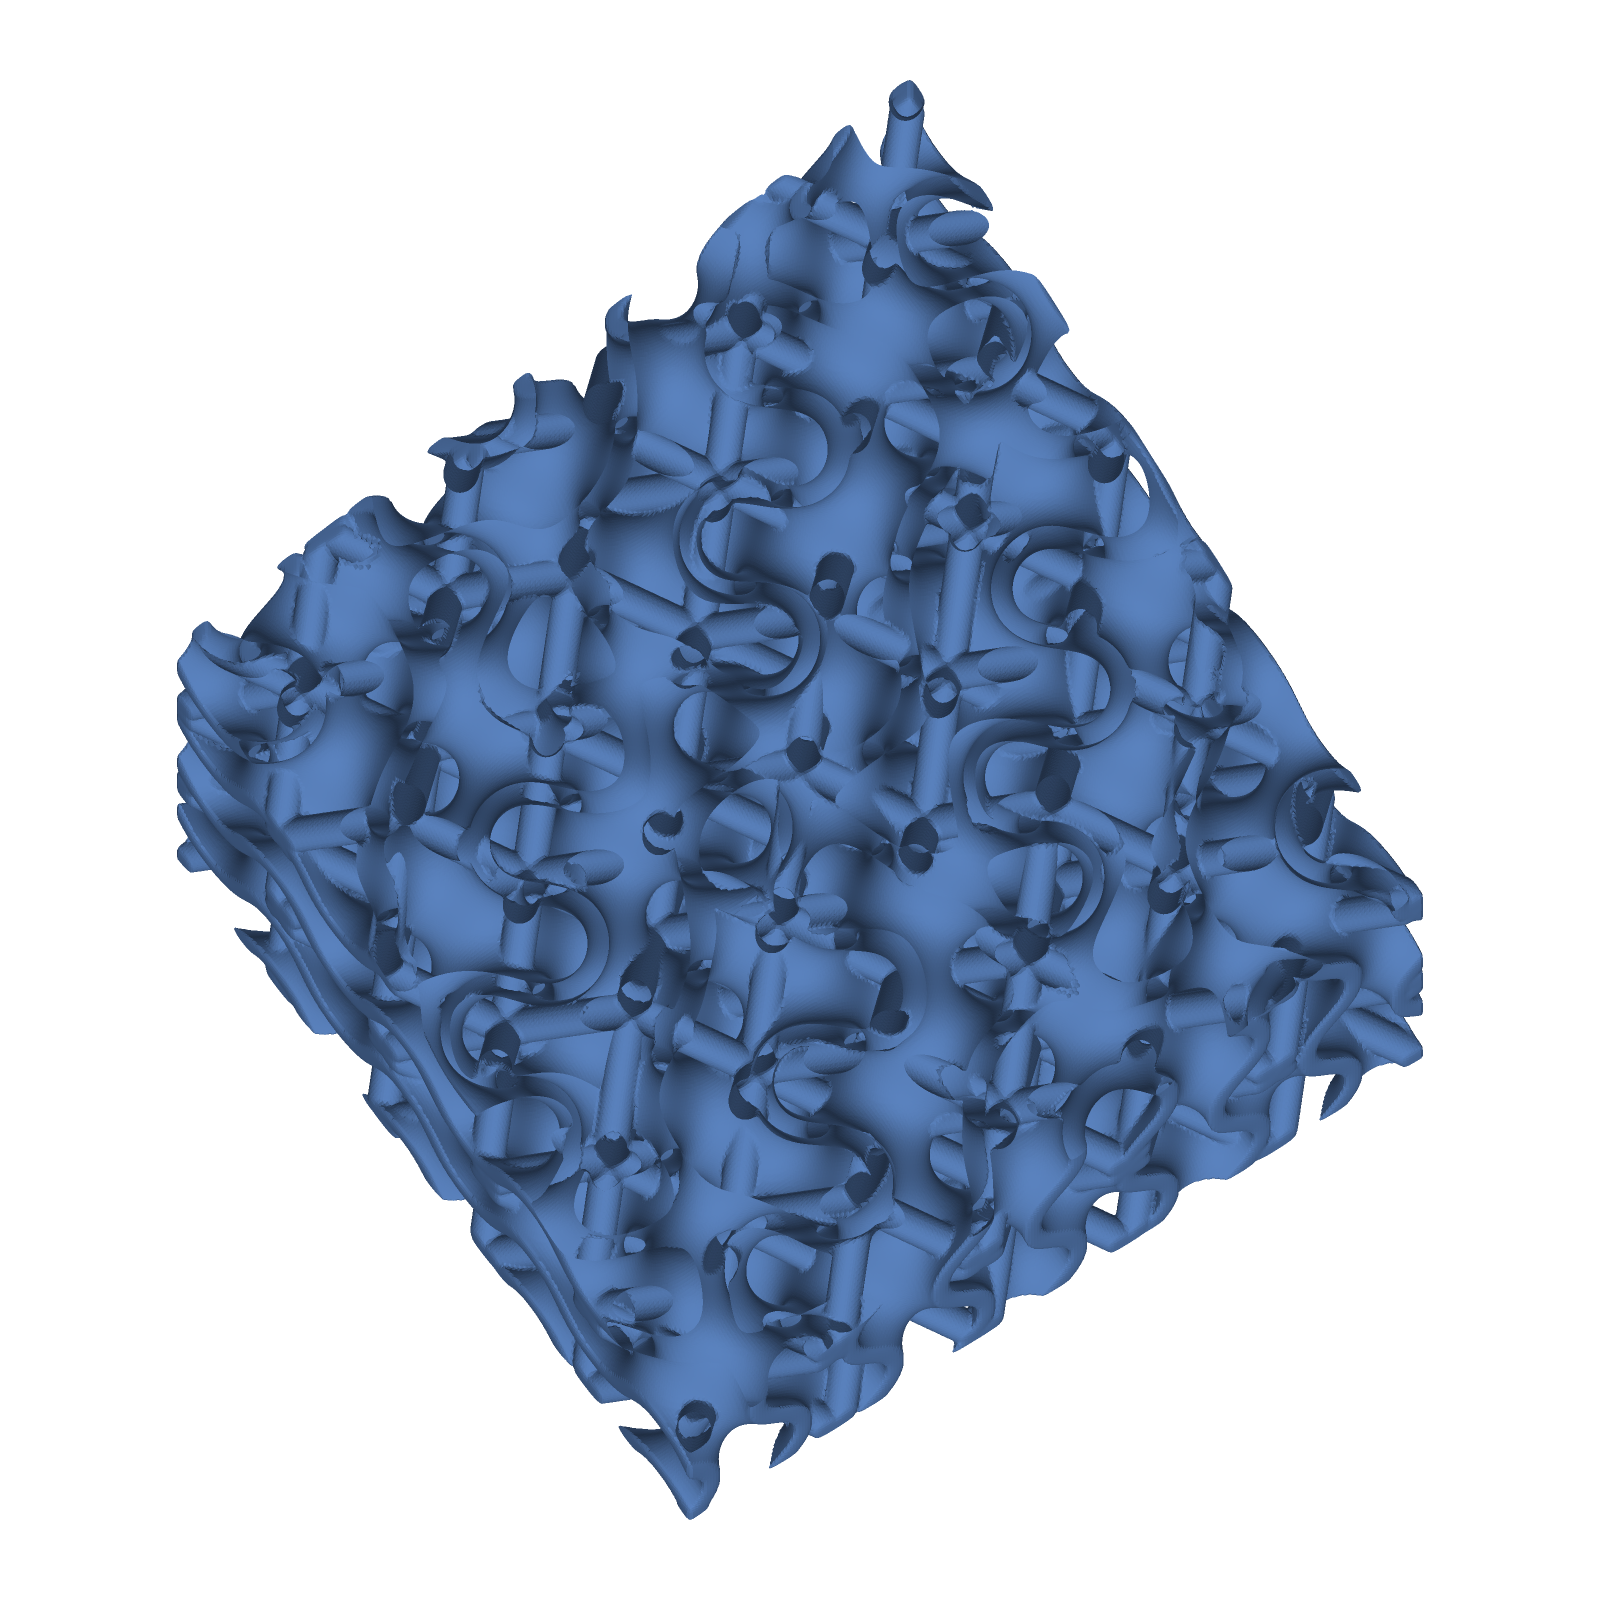
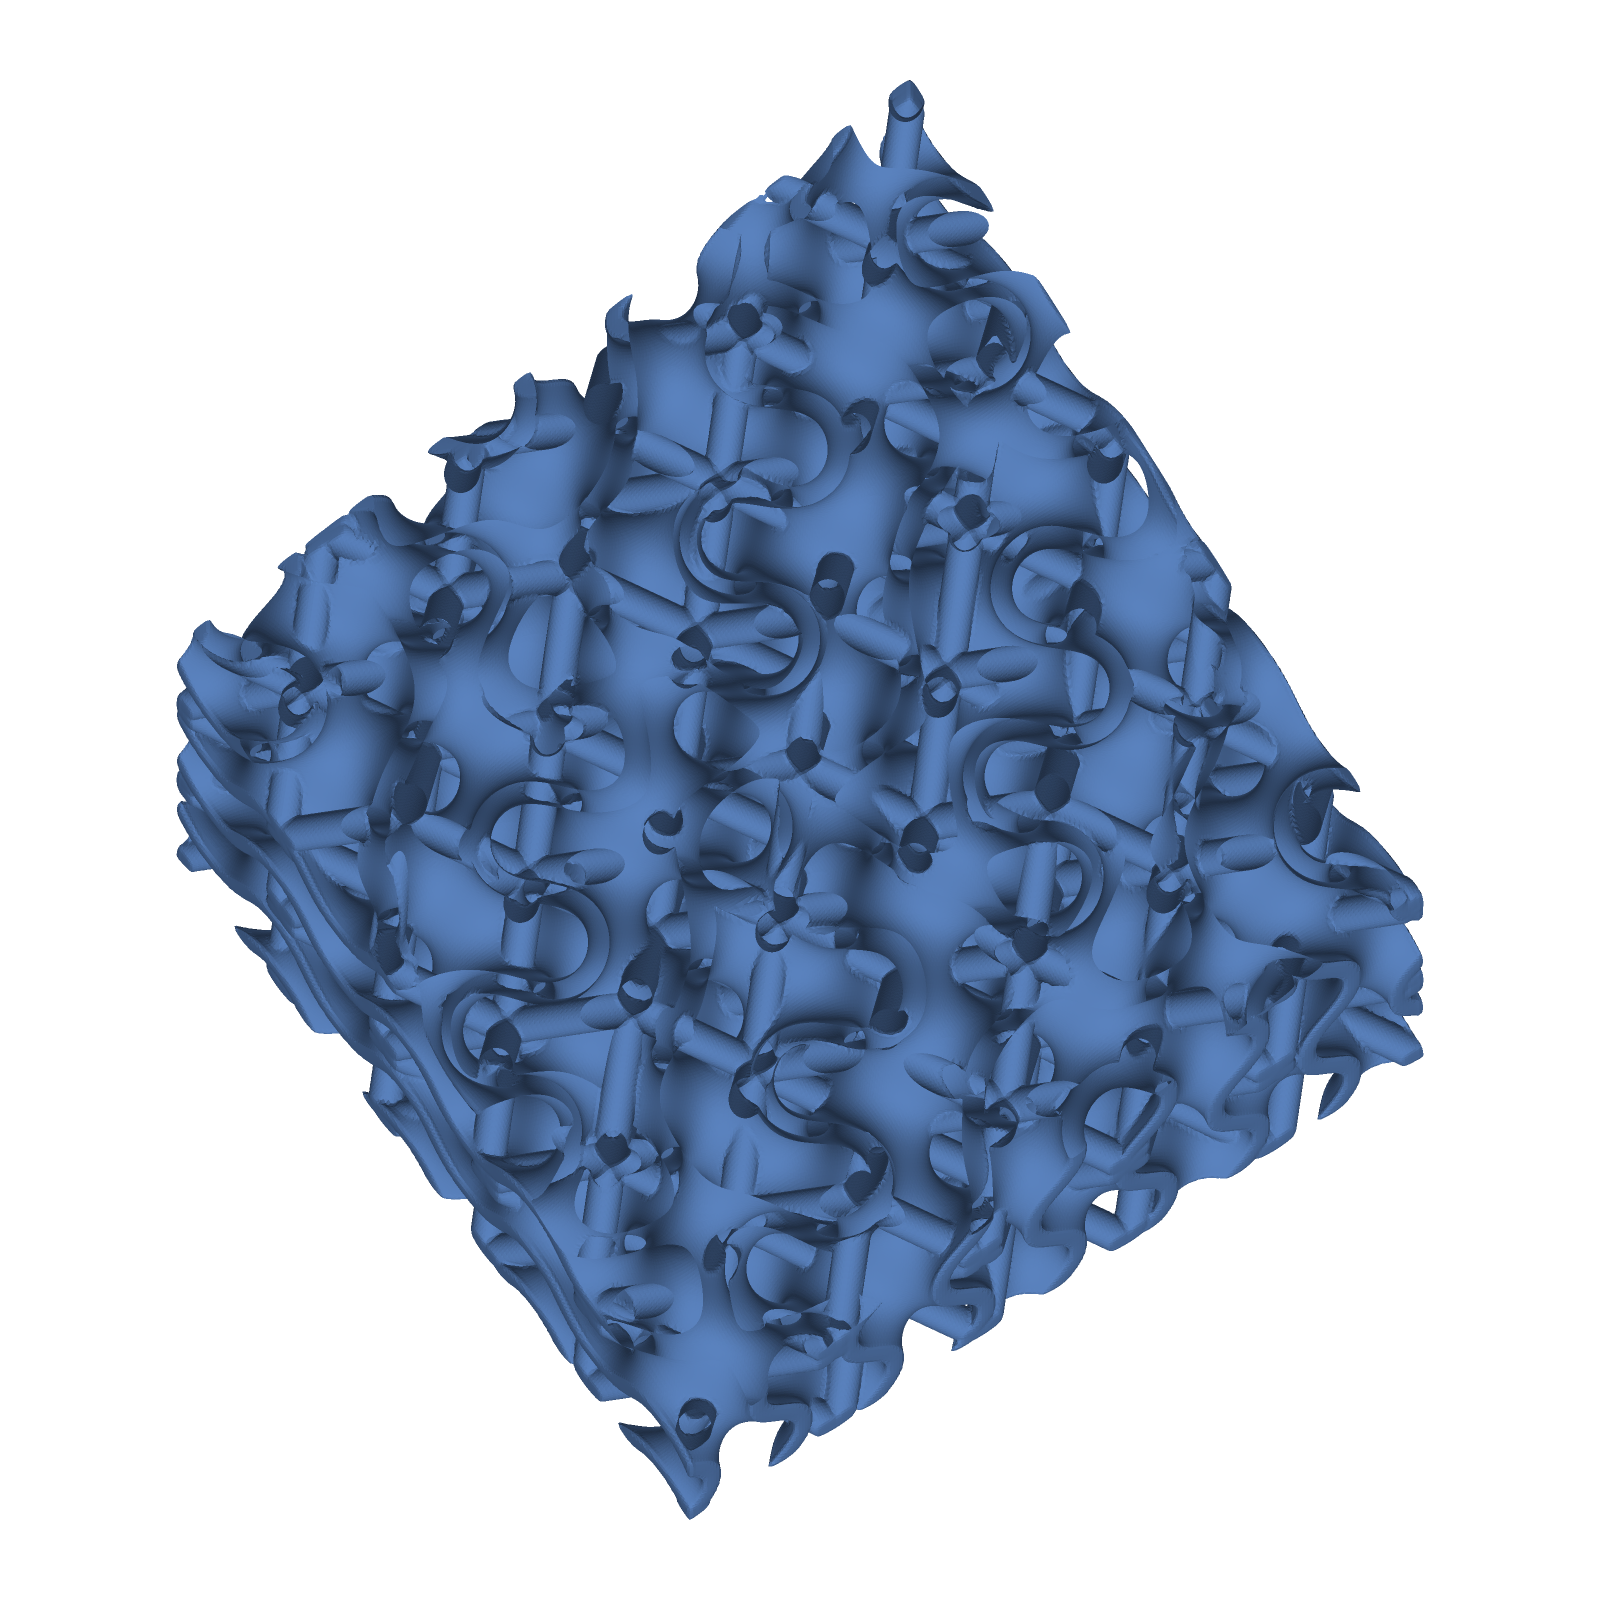
A5 fused designs re-meshed with manifold dual contouring (CPU, 256): 6/6 PASS; volumes change by at most 0.6 %; gallery.json, design files, PNGs and README updated (the other five entries unchanged)

diff --git a/examples/structure_gallery_256_mixed_open/README.md b/examples/structure_gallery_256_mixed_open/README.md
@@ -8,12 +8,12 @@ Field-based (non-exact) renders: these come from the field and surface-nets mesh
 
 | id | title | group | volume (mm³) | validation | images |
 |---|---|---|---|---|---|
-| `fusion_gyroid_plus_bcc` | Gyroid union BCC lattice (open partner) | fusion | 3374.646 | PASS (7/7) | screenshot.png, view_top.png, view_front.png, view_side.png |
-| `fusion_schwarzp_to_gyroid` | Schwarz P below, gyroid above (zoned at mid-height) | fusion | 2179.981 | PASS (7/7) | screenshot.png, view_top.png, view_front.png, view_side.png |
-| `fusion_kelvin_to_iwp` | Kelvin lattice below, I-WP above (zoned), open (no skin) | fusion | 2205.499 | PASS (7/7) | screenshot.png, view_top.png, view_front.png, view_side.png |
-| `fusion_bcc_plus_voronoi` | BCC lattice union Voronoi foam | fusion | 6174.205 | PASS (7/7) | screenshot.png, view_top.png, view_front.png, view_side.png |
-| `fusion_helical_cap_iwp` | Helical plies intersected with I-WP | fusion | 2381.578 | PASS (7/7) | screenshot.png, view_top.png, view_front.png, view_side.png |
-| `fusion_diamond_plus_lidinoid` | Diamond lattice union Lidinoid, open (no skin) | fusion | 5138.036 | PASS (7/7) | screenshot.png, view_top.png, view_front.png, view_side.png |
+| `fusion_gyroid_plus_bcc` | Gyroid union BCC lattice (open partner) | fusion | 3376.501 | PASS (7/7) | screenshot.png, view_top.png, view_front.png, view_side.png |
+| `fusion_schwarzp_to_gyroid` | Schwarz P below, gyroid above (zoned at mid-height) | fusion | 2180.736 | PASS (7/7) | screenshot.png, view_top.png, view_front.png, view_side.png |
+| `fusion_kelvin_to_iwp` | Kelvin lattice below, I-WP above (zoned), open (no skin) | fusion | 2212.687 | PASS (7/7) | screenshot.png, view_top.png, view_front.png, view_side.png |
+| `fusion_bcc_plus_voronoi` | BCC lattice union Voronoi foam | fusion | 6175.190 | PASS (7/7) | screenshot.png, view_top.png, view_front.png, view_side.png |
+| `fusion_helical_cap_iwp` | Helical plies intersected with I-WP | fusion | 2380.508 | PASS (7/7) | screenshot.png, view_top.png, view_front.png, view_side.png |
+| `fusion_diamond_plus_lidinoid` | Diamond lattice union Lidinoid, open (no skin) | fusion | 5107.865 | PASS (7/7) | screenshot.png, view_top.png, view_front.png, view_side.png |
 | `deep_R1_thickness` | R1 thickness: gyroid wall set by a cellular foam field | coupled | 4032.182 | PASS (6/6) | screenshot.png, view_top.png, view_front.png, view_side.png |
 | `deep_R2_nested` | R2 nested: Kelvin lattice grown inside tubular pores | coupled | 5603.703 | PASS (6/6) | screenshot.png, view_top.png, view_front.png, view_side.png |
 | `deep_R3_twist` | R3 twist: BCC lattice twisted by a helical angle | coupled | 1419.638 | PASS (6/6) | screenshot.png, view_top.png, view_front.png, view_side.png |
@@ -85,4 +85,10 @@ Each of the six faces is 0.598 solid (inset 0.2 mm, h 0.1 mm). The Lidinoid part
 All 11 designs were re-run with the current code (`scripts/structure_gallery.ts 256`, output in a scratch folder inside the repository and then copied). All 11 PASS. Every volume and every render (44 PNG files) is identical to the committed values. The only changes in the files are:
 - `gallery.json` and each `design.json` now carry `min_wall_excluded_near_faces` (samples within 0.5 mm of the faces excluded from the wall metric; 690 to 1,987 per design).
 - Two `design.json` / `design.ts` files (`fusion_kelvin_to_iwp`, `fusion_diamond_plus_lidinoid`) had a stale prompt and title that still said "with skin" / "1 mm skin". They now say open, as in `gallery.json`.
+
+## Fused designs: manifold dual contouring (CPU re-run at 256)
+The six fused designs (`topology: fusion`) are now meshed with manifold dual contouring (`src/geometry/dualcontour.ts`) instead of surface nets, because surface nets gave non-manifold edges at the union creases. All six re-run and PASS. Their volumes change by at most 0.6 %:
+- `fusion_gyroid_plus_bcc` 3374.646 → 3376.501 mm³; `fusion_schwarzp_to_gyroid` 2179.981 → 2180.736; `fusion_kelvin_to_iwp` 2205.499 → 2212.687; `fusion_bcc_plus_voronoi` 6174.205 → 6175.190; `fusion_helical_cap_iwp` 2381.578 → 2380.508; `fusion_diamond_plus_lidinoid` 5138.036 → 5107.865 (Monte Carlo 5094.4).
+- Non-manifold edges at 96 cells, before → after: gyroid+BCC 3897 → 135; schwarz→gyroid 64 → 0; kelvin→iwp 488 → 14; BCC+Voronoi 1019 → 53; helical cap 113 → 6; diamond+lidinoid 7092 → 483. Open edges stay 0. The residual pinches are narrower than one voxel (see `docs/NONMANIFOLD.md`).
+- The other five entries use surface nets, unchanged.
 

diff --git a/examples/structure_gallery_256_mixed_open/SUMMARY.md b/examples/structure_gallery_256_mixed_open/SUMMARY.md
@@ -5,12 +5,12 @@ Volumes are field-based (surface nets of the SDF), not exact B-Rep, unless the R
 
 | id | title | group | check | components | volume (mm³) | min wall p5 (mm) | genus (handles) | repairs |
 |---|---|---|---|---|---|---|---|---|
-| `fusion_gyroid_plus_bcc` | Gyroid union BCC lattice | fusion | PASS | 1 | 3374.646 | 0.48 | 2316 | 0 |
-| `fusion_schwarzp_to_gyroid` | Schwarz P below, gyroid above (zoned at mid-height) | fusion | PASS | 1 | 2179.981 | 0.4799 | 433 | 0 |
-| `fusion_kelvin_to_iwp` | Kelvin lattice below, I-WP above (zoned), open (no skin) | fusion | PASS | 1 | 2205.499 | 0.4721 | 1137 | 0 |
-| `fusion_bcc_plus_voronoi` | BCC lattice union Voronoi foam | fusion | PASS | 1 | 6174.205 | 0.8 | 544 | 0 |
-| `fusion_helical_cap_iwp` | Helical plies intersected with I-WP | fusion | PASS | 1 | 2381.578 | 0.4708 | 699 | 0 |
-| `fusion_diamond_plus_lidinoid` | Diamond lattice union Lidinoid, open (no skin) | fusion | PASS | 1 | 5138.036 | 0.4349 | 3655 | 0 |
+| `fusion_gyroid_plus_bcc` | Gyroid union BCC lattice | fusion | PASS | 1 | 3376.501 | 0.4801 | 2316 | 0 |
+| `fusion_schwarzp_to_gyroid` | Schwarz P below, gyroid above (zoned at mid-height) | fusion | PASS | 1 | 2180.736 | 0.4799 | 433 | 0 |
+| `fusion_kelvin_to_iwp` | Kelvin lattice below, I-WP above (zoned), open (no skin) | fusion | PASS | 1 | 2212.687 | 0.4722 | 1137 | 0 |
+| `fusion_bcc_plus_voronoi` | BCC lattice union Voronoi foam | fusion | PASS | 1 | 6175.190 | 0.8 | 544 | 0 |
+| `fusion_helical_cap_iwp` | Helical plies intersected with I-WP | fusion | PASS | 1 | 2380.508 | 0.4711 | 699 | 0 |
+| `fusion_diamond_plus_lidinoid` | Diamond lattice union Lidinoid, open (no skin) | fusion | PASS | 1 | 5107.865 | 0.4349 | 3655 | 0 |
 | `deep_R1_thickness` | R1 thickness: gyroid wall set by a cellular foam field | coupled | PASS | 1 | 4032.182 | 0.4819 | 490 | 0 |
 | `deep_R2_nested` | R2 nested: Kelvin lattice grown inside tubular pores | coupled | PASS | 1 | 5603.703 | 0.5892 | 5936 | 0 |
 | `deep_R3_twist` | R3 twist: BCC lattice twisted by a helical angle | coupled | PASS | 1 | 1419.638 | 0.5451 | 627 | 0 |
